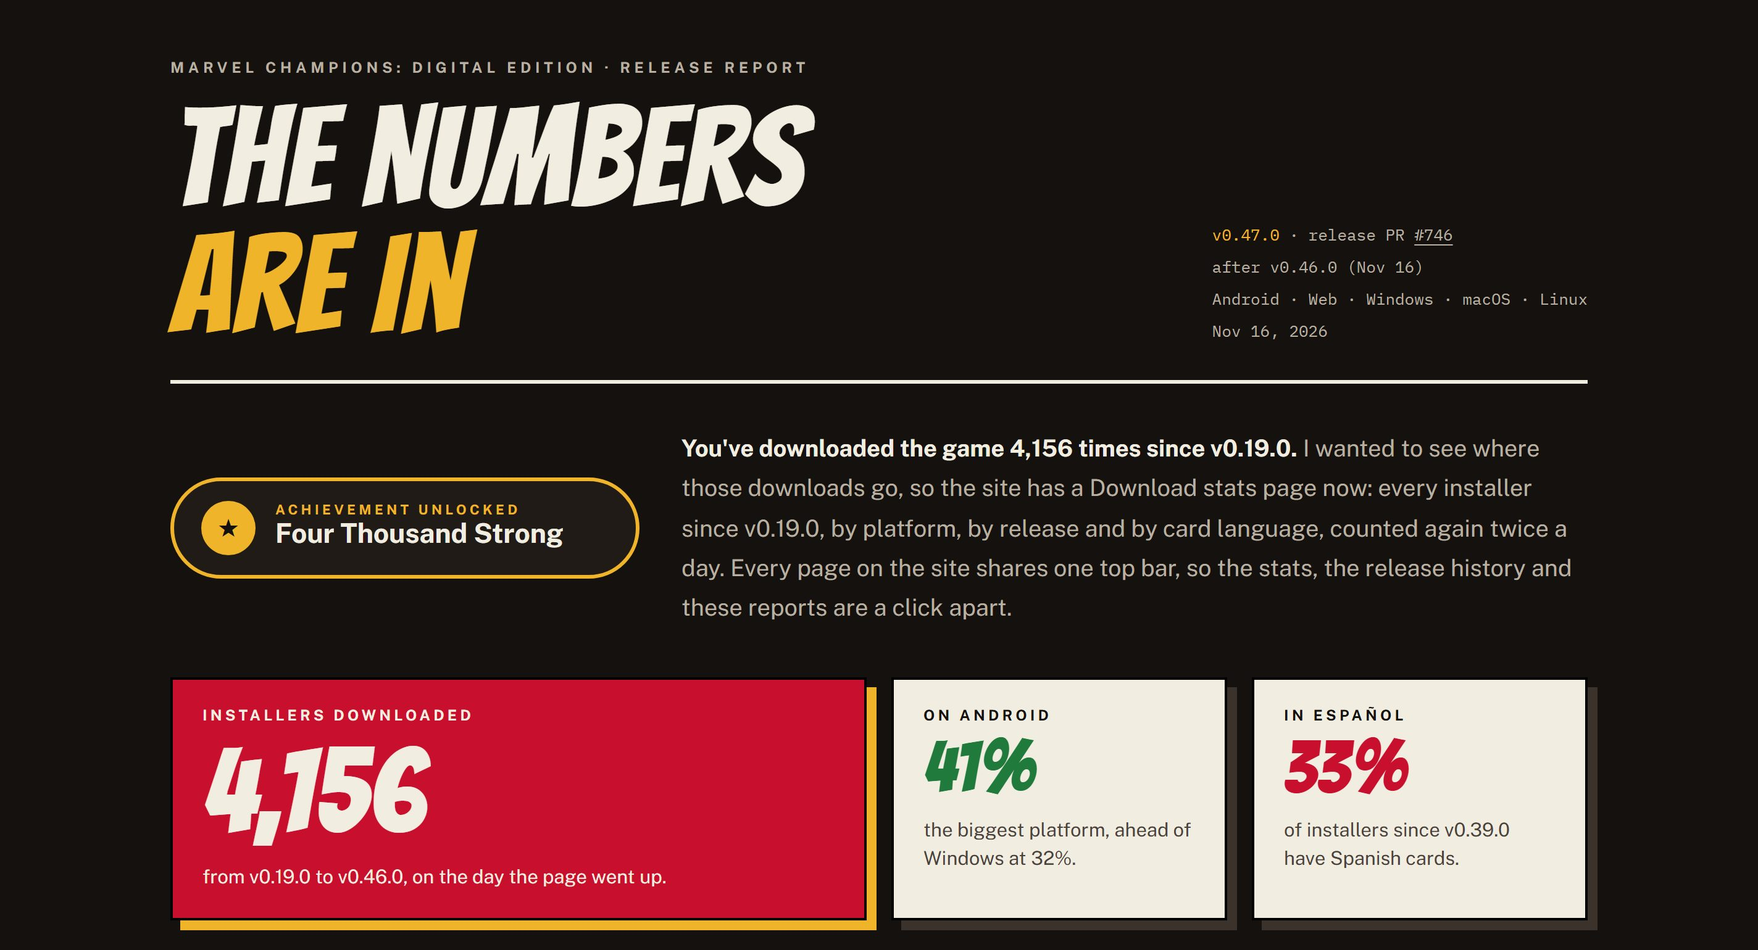
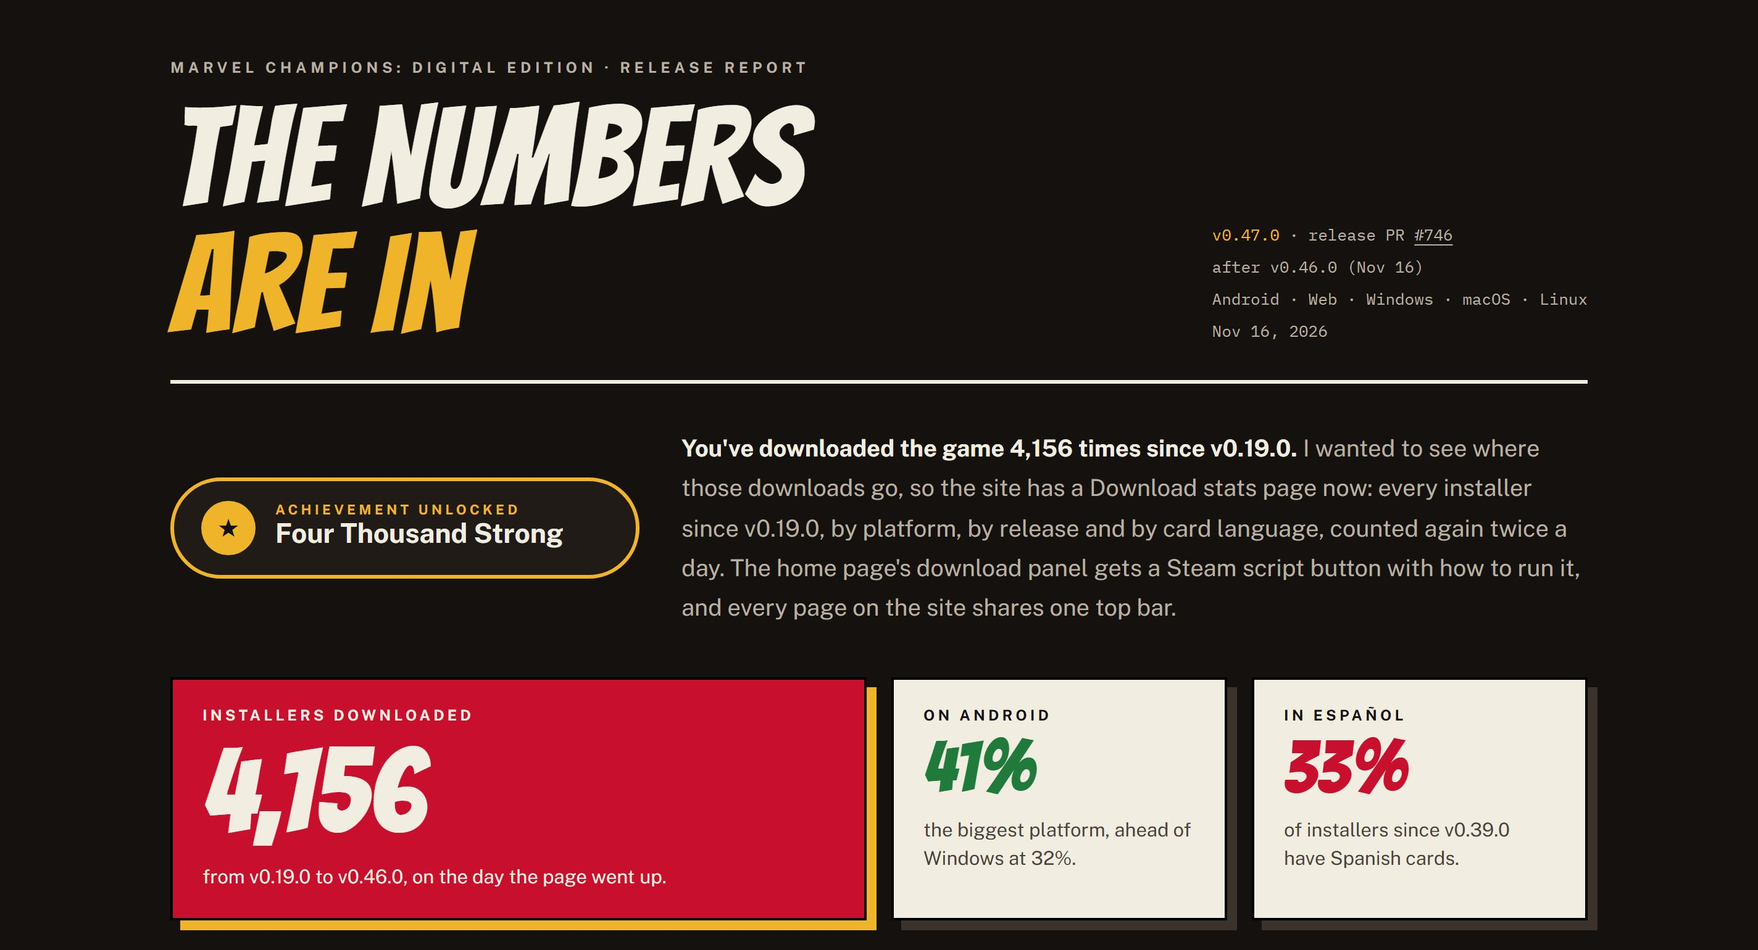
Add the Steam script button (#748) to the v0.47.0 report and recount

Changed region(s): [[0.375, 0.5922, 0.9062, 0.6545]]

diff --git a/packages/client/public/releases/v0.47.0/index.html b/packages/client/public/releases/v0.47.0/index.html
@@ -6,12 +6,12 @@
     <title>v0.47.0 · Marvel Champions: Digital Edition</title>
     <meta
       name="description"
-      content="What's new in v0.47.0 of the fan-made Marvel Champions digital game: a download stats page on the site, with every release's downloads by platform and language, and one top bar across the site's pages."
+      content="What's new in v0.47.0 of the fan-made Marvel Champions digital game: a download stats page on the site, with every release's downloads by platform and language, a Steam script button on the home page, and one top bar across the site's pages."
     />
     <meta property="og:title" content="Marvel Champions: Digital Edition v0.47.0" />
     <meta
       property="og:description"
-      content="A download stats page on the site counts every installer since v0.19.0, by platform, release and language."
+      content="A download stats page counts every installer since v0.19.0, and the home page gets a Steam script button."
     />
     <meta property="og:image" content="https://champions-digital-game.com/releases/v0.47.0/img/og.jpg" />
     <style>
@@ -609,8 +609,8 @@
         <p>
           <b>You've downloaded the game 4,156 times since v0.19.0.</b> I wanted to see where those downloads go, so the
           site has a Download stats page now: every installer since v0.19.0, by platform, by release and by card
-          language, counted again twice a day. Every page on the site shares one top bar, so the stats, the release
-          history and these reports are a click apart.
+          language, counted again twice a day. The home page's download panel gets a Steam script button with how to run
+          it, and every page on the site shares one top bar.
         </p>
       </section>
 
@@ -734,6 +734,78 @@
         </div>
       </div>
 
+      <!-- ============ STEAM ============ -->
+      <div class="band">
+        <h2>Play it from Steam</h2>
+        <div class="lab">Issue #747 · PR #748</div>
+      </div>
+      <p class="lead">
+        <b>The home page's download panel has a Steam script button now,</b> with the Steam logo, right beside the
+        installer for your computer. Under it, a short note says what the script does and how to run it on that
+        computer.
+      </p>
+      <div class="shots s-phone">
+        <div class="shots" style="margin: 0">
+          <figure class="a">
+            <img
+              src="img/steam-windows.webp"
+              alt="The download panel on Windows: Download for Windows, a Steam script button with the Steam logo and the .cmd file's name, and Play in your browser, above a Play it from Steam note"
+              width="1280"
+              height="521"
+              loading="lazy"
+            />
+            <figcaption>On Windows: double-click the .cmd</figcaption>
+          </figure>
+          <figure>
+            <img
+              src="img/steam-linux.webp"
+              alt="The download panel on Linux: the Steam script button beside Download for Linux and Steam Deck, and a note with the chmod and run commands, each on a line of its own"
+              width="1280"
+              height="686"
+              loading="lazy"
+            />
+            <figcaption>On Linux and Steam Deck, the commands to copy</figcaption>
+          </figure>
+        </div>
+        <figure class="a">
+          <img
+            src="img/steam-mac-phone.webp"
+            alt="The download panel for a Mac on a phone-sized screen, with the Steam script button and the Terminal commands wrapping to fit"
+            width="412"
+            height="1152"
+            loading="lazy"
+          />
+          <figcaption>The macOS note at phone width</figcaption>
+        </figure>
+      </div>
+      <div class="cols">
+        <div class="box">
+          <h3>What the script does</h3>
+          <ul class="ck">
+            <li>It installs the game, adds it to your Steam library with its art, and keeps it updated.</li>
+            <li>Steam has to be closed while it runs, and the script offers to close it.</li>
+            <li>
+              Phones, and computers the page can't recognize, get no Steam button. Every system's script is still under
+              Other devices.
+            </li>
+          </ul>
+        </div>
+        <div class="box">
+          <h3>How to run it</h3>
+          <ul class="ck">
+            <li>
+              <b>Windows:</b> double-click the <code>.cmd</code>. If Windows stops it, choose <b>More info</b>, then
+              <b>Run anyway</b>. No PowerShell settings to change.
+            </li>
+            <li>
+              <b>macOS and Linux:</b> give it permission with <code>chmod +x</code>, then run it, or run it with
+              <code>bash</code> and skip that step. Each command sits on its own line, so it copies whole.
+            </li>
+            <li><b>Steam Deck:</b> switch to Desktop Mode and run it in Konsole.</li>
+          </ul>
+        </div>
+      </div>
+
       <!-- ============ NAV ============ -->
       <div class="band">
         <h2>One bar across the site</h2>
@@ -805,22 +877,22 @@
       <section class="stats" aria-label="Code shipped since v0.46.0">
         <div class="tile">
           <h4>Pull requests</h4>
-          <div class="n">2</div>
+          <div class="n">3</div>
           <p>merged into main.</p>
         </div>
         <div class="tile">
           <h4>Files changed</h4>
-          <div class="n">67</div>
+          <div class="n">62</div>
           <p>across the site, its build and this report.</p>
         </div>
         <div class="tile">
           <h4>Lines added</h4>
-          <div class="n c-green">2,887</div>
+          <div class="n c-green">3,145</div>
           <p>the stats page, the top bar and their tests.</p>
         </div>
         <div class="tile">
           <h4>Lines removed</h4>
-          <div class="n c-red">45</div>
+          <div class="n c-red">46</div>
           <p>most of them the home page's old links and styles, replaced by the bar.</p>
         </div>
       </section>

diff --git a/docs/screenshots/releases/v0.47.0/github-release-body.md b/docs/screenshots/releases/v0.47.0/github-release-body.md
@@ -1,20 +1,22 @@
 ## The Numbers Are In
 
-You've downloaded the game 4,156 times since v0.19.0, so the site has a Download stats page now (#743, #745): every installer by platform, by release and by card language, the five biggest releases with their headlines, and the Install for Steam runs, counted again twice a day whenever the numbers move. Android leads with 41%, and a third of installers since v0.39.0 have Spanish cards. Every page on the site, from the home page to the release history and each report, shares one top bar with Home, Download stats and Releases. Thank you for playing!
+You've downloaded the game 4,156 times since v0.19.0, so the site has a Download stats page now (#743, #745): every installer by platform, by release and by card language, the five biggest releases with their headlines, and the Install for Steam runs, counted again twice a day whenever the numbers move. Android leads with 41%, and a third of installers since v0.39.0 have Spanish cards. The home page's download panel gets a Steam script button beside the installer, with how to run it on Windows, macOS, Linux and Steam Deck (#747, #748). Every page on the site, from the home page to the release history and each report, shares one top bar with Home, Download stats and Releases. Thank you for playing!
 
-**[Read the full v0.47.0 report on the site ↗](https://champions-digital-game.com/releases/v0.47.0/)**: the Download stats page, where you play, every release's bar, the top five, the shared top bar and the thank-you wall.
+**[Read the full v0.47.0 report on the site ↗](https://champions-digital-game.com/releases/v0.47.0/)**: the Download stats page, where you play, every release's bar, the top five, the Steam script button, the shared top bar and the thank-you wall.
 
 **[Lee el informe completo en español ↗](https://champions-digital-game.com/releases/v0.47.0/index.es.html)**
 
-![The numbers: 4,156 installers downloaded since v0.19.0, 41% of them on Android and 33% in Español since v0.39.0](https://raw.githubusercontent.com/quincarter/marvel-champions-digital-game/8be7a17d6d1dae621b5d46f259ffb0db8825f0ca/docs/screenshots/releases/v0.47.0/v0-47-0-release-01-the-numbers.jpg)
+![The numbers: 4,156 installers downloaded since v0.19.0, 41% of them on Android and 33% in Español since v0.39.0](https://raw.githubusercontent.com/quincarter/marvel-champions-digital-game/@SHA@/docs/screenshots/releases/v0.47.0/v0-47-0-release-01-the-numbers.jpg)
 
-![A page for the numbers: the Download stats page, each platform's share, the five biggest releases, the page on a phone, a bar for every release, and card language and Install for Steam](https://raw.githubusercontent.com/quincarter/marvel-champions-digital-game/8be7a17d6d1dae621b5d46f259ffb0db8825f0ca/docs/screenshots/releases/v0.47.0/v0-47-0-release-02-a-page-for-the-numbers.jpg)
+![A page for the numbers: the Download stats page, each platform's share, the five biggest releases, the page on a phone, a bar for every release, and card language and Install for Steam](https://raw.githubusercontent.com/quincarter/marvel-champions-digital-game/@SHA@/docs/screenshots/releases/v0.47.0/v0-47-0-release-02-a-page-for-the-numbers.jpg)
 
-![One bar across the site: Home, Download stats and Releases on a release report and on the release history](https://raw.githubusercontent.com/quincarter/marvel-champions-digital-game/8be7a17d6d1dae621b5d46f259ffb0db8825f0ca/docs/screenshots/releases/v0.47.0/v0-47-0-release-03-one-bar-across-the-site.jpg)
+![Play it from Steam: the Steam script button beside the installer on Windows, Linux and a Mac at phone width, with how to run it](https://raw.githubusercontent.com/quincarter/marvel-champions-digital-game/@SHA@/docs/screenshots/releases/v0.47.0/v0-47-0-release-03-play-it-from-steam.jpg)
 
-![Thank you to everyone who played, in English, in Español and on Steam](https://raw.githubusercontent.com/quincarter/marvel-champions-digital-game/8be7a17d6d1dae621b5d46f259ffb0db8825f0ca/docs/screenshots/releases/v0.47.0/v0-47-0-release-04-thank-you.jpg)
+![One bar across the site: Home, Download stats and Releases on a release report and on the release history](https://raw.githubusercontent.com/quincarter/marvel-champions-digital-game/@SHA@/docs/screenshots/releases/v0.47.0/v0-47-0-release-04-one-bar-across-the-site.jpg)
 
-![Code shipped since v0.46.0](https://raw.githubusercontent.com/quincarter/marvel-champions-digital-game/8be7a17d6d1dae621b5d46f259ffb0db8825f0ca/docs/screenshots/releases/v0.47.0/v0-47-0-release-05-code-shipped.jpg)
+![Thank you to everyone who played, in English, in Español and on Steam](https://raw.githubusercontent.com/quincarter/marvel-champions-digital-game/@SHA@/docs/screenshots/releases/v0.47.0/v0-47-0-release-05-thank-you.jpg)
+
+![Code shipped since v0.46.0](https://raw.githubusercontent.com/quincarter/marvel-champions-digital-game/@SHA@/docs/screenshots/releases/v0.47.0/v0-47-0-release-06-code-shipped.jpg)
 
 ---
 
@@ -24,3 +26,4 @@ You've downloaded the game 4,156 times since v0.19.0, so the site has a Download
 
 - A download stats page on the landing site, refreshed twice a day when the numbers change, and a top nav (Home, Download stats, Releases) on the landing, stats and release pages.
 - The v0.47.0 release report has its own page on the site, at /releases/v0.47.0/
+- The landing page's download panel has a Steam script button beside the installer, with how to run it on Windows, macOS and Linux.

diff --git a/docs/releases/es/v0.47.0.md b/docs/releases/es/v0.47.0.md
@@ -1,16 +1,18 @@
 ## Ya están los números
 
-Has descargado el juego 4,156 veces desde v0.19.0, así que el sitio ahora tiene una página de estadísticas de descargas (#743, #745): cada instalador por plataforma, por versión y por idioma de las cartas, las cinco versiones más descargadas con sus titulares y las ejecuciones de Install for Steam, contado de nuevo dos veces al día cuando cambian las cifras. Android va primero con un 41%, y un tercio de los instaladores desde v0.39.0 traen las cartas en español. Todas las páginas del sitio, desde la de inicio hasta el historial de versiones y cada informe, comparten una barra superior con Home, Download stats y Releases. ¡Gracias por jugar!
+Has descargado el juego 4,156 veces desde v0.19.0, así que el sitio ahora tiene una página de estadísticas de descargas (#743, #745): cada instalador por plataforma, por versión y por idioma de las cartas, las cinco versiones más descargadas con sus titulares y las ejecuciones de Install for Steam, contado de nuevo dos veces al día cuando cambian las cifras. Android va primero con un 41%, y un tercio de los instaladores desde v0.39.0 traen las cartas en español. El panel de descarga de la página de inicio tiene un botón Steam script junto al instalador, con cómo ejecutarlo en Windows, macOS, Linux y Steam Deck (#747, #748). Todas las páginas del sitio, desde la de inicio hasta el historial de versiones y cada informe, comparten una barra superior con Home, Download stats y Releases. ¡Gracias por jugar!
 
-![Los números: 4,156 instaladores descargados desde v0.19.0, el 41% en Android y el 33% en español desde v0.39.0](https://raw.githubusercontent.com/quincarter/marvel-champions-digital-game/8be7a17d6d1dae621b5d46f259ffb0db8825f0ca/docs/screenshots/releases/v0.47.0/v0-47-0-release-01-the-numbers.jpg)
+![Los números: 4,156 instaladores descargados desde v0.19.0, el 41% en Android y el 33% en español desde v0.39.0](https://raw.githubusercontent.com/quincarter/marvel-champions-digital-game/@SHA@/docs/screenshots/releases/v0.47.0/v0-47-0-release-01-the-numbers.jpg)
 
-![Una página para los números: la página Download stats, la parte de cada plataforma, las cinco versiones más descargadas, la página en un teléfono, una barra por versión, y el idioma de las cartas e Install for Steam](https://raw.githubusercontent.com/quincarter/marvel-champions-digital-game/8be7a17d6d1dae621b5d46f259ffb0db8825f0ca/docs/screenshots/releases/v0.47.0/v0-47-0-release-02-a-page-for-the-numbers.jpg)
+![Una página para los números: la página Download stats, la parte de cada plataforma, las cinco versiones más descargadas, la página en un teléfono, una barra por versión, y el idioma de las cartas e Install for Steam](https://raw.githubusercontent.com/quincarter/marvel-champions-digital-game/@SHA@/docs/screenshots/releases/v0.47.0/v0-47-0-release-02-a-page-for-the-numbers.jpg)
 
-![Una barra en todo el sitio: Home, Download stats y Releases en un informe de versión y en el historial de versiones](https://raw.githubusercontent.com/quincarter/marvel-champions-digital-game/8be7a17d6d1dae621b5d46f259ffb0db8825f0ca/docs/screenshots/releases/v0.47.0/v0-47-0-release-03-one-bar-across-the-site.jpg)
+![Juega desde Steam: el botón Steam script junto al instalador en Windows, Linux y un Mac con ancho de teléfono, con cómo ejecutarlo](https://raw.githubusercontent.com/quincarter/marvel-champions-digital-game/@SHA@/docs/screenshots/releases/v0.47.0/v0-47-0-release-03-play-it-from-steam.jpg)
 
-![Gracias a todos los que jugaron, en inglés, en español y en Steam](https://raw.githubusercontent.com/quincarter/marvel-champions-digital-game/8be7a17d6d1dae621b5d46f259ffb0db8825f0ca/docs/screenshots/releases/v0.47.0/v0-47-0-release-04-thank-you.jpg)
+![Una barra en todo el sitio: Home, Download stats y Releases en un informe de versión y en el historial de versiones](https://raw.githubusercontent.com/quincarter/marvel-champions-digital-game/@SHA@/docs/screenshots/releases/v0.47.0/v0-47-0-release-04-one-bar-across-the-site.jpg)
 
-![Código publicado desde v0.46.0](https://raw.githubusercontent.com/quincarter/marvel-champions-digital-game/8be7a17d6d1dae621b5d46f259ffb0db8825f0ca/docs/screenshots/releases/v0.47.0/v0-47-0-release-05-code-shipped.jpg)
+![Gracias a todos los que jugaron, en inglés, en español y en Steam](https://raw.githubusercontent.com/quincarter/marvel-champions-digital-game/@SHA@/docs/screenshots/releases/v0.47.0/v0-47-0-release-05-thank-you.jpg)
+
+![Código publicado desde v0.46.0](https://raw.githubusercontent.com/quincarter/marvel-champions-digital-game/@SHA@/docs/screenshots/releases/v0.47.0/v0-47-0-release-06-code-shipped.jpg)
 
 ## [v0.47.0] - 2026-11-16
 
@@ -18,3 +20,4 @@ Has descargado el juego 4,156 veces desde v0.19.0, así que el sitio ahora tiene
 
 - Una página de estadísticas de descargas en el sitio, actualizada dos veces al día cuando cambian las cifras, y una barra superior (Home, Download stats, Releases) en la página de inicio, la de estadísticas y las de versiones.
 - El informe de la versión v0.47.0 tiene su propia página en el sitio, en /releases/v0.47.0/
+- El panel de descarga de la página de inicio tiene un botón Steam script junto al instalador, con cómo ejecutarlo en Windows, macOS y Linux.

diff --git a/docs/screenshots/releases/v0.47.0/release-notes-header.md b/docs/screenshots/releases/v0.47.0/release-notes-header.md
@@ -1,17 +1,19 @@
 ## The Numbers Are In
 
-You've downloaded the game 4,156 times since v0.19.0, so the site has a Download stats page now (#743, #745): every installer by platform, by release and by card language, the five biggest releases with their headlines, and the Install for Steam runs, counted again twice a day whenever the numbers move. Android leads with 41%, and a third of installers since v0.39.0 have Spanish cards. Every page on the site, from the home page to the release history and each report, shares one top bar with Home, Download stats and Releases. Thank you for playing!
+You've downloaded the game 4,156 times since v0.19.0, so the site has a Download stats page now (#743, #745): every installer by platform, by release and by card language, the five biggest releases with their headlines, and the Install for Steam runs, counted again twice a day whenever the numbers move. Android leads with 41%, and a third of installers since v0.39.0 have Spanish cards. The home page's download panel gets a Steam script button beside the installer, with how to run it on Windows, macOS, Linux and Steam Deck (#747, #748). Every page on the site, from the home page to the release history and each report, shares one top bar with Home, Download stats and Releases. Thank you for playing!
 
-**[Read the full v0.47.0 report on the site ↗](https://champions-digital-game.com/releases/v0.47.0/)**: the Download stats page, where you play, every release's bar, the top five, the shared top bar and the thank-you wall.
+**[Read the full v0.47.0 report on the site ↗](https://champions-digital-game.com/releases/v0.47.0/)**: the Download stats page, where you play, every release's bar, the top five, the Steam script button, the shared top bar and the thank-you wall.
 
 **[Lee el informe completo en español ↗](https://champions-digital-game.com/releases/v0.47.0/index.es.html)**
 
-![The numbers: 4,156 installers downloaded since v0.19.0, 41% of them on Android and 33% in Español since v0.39.0](https://raw.githubusercontent.com/quincarter/marvel-champions-digital-game/8be7a17d6d1dae621b5d46f259ffb0db8825f0ca/docs/screenshots/releases/v0.47.0/v0-47-0-release-01-the-numbers.jpg)
+![The numbers: 4,156 installers downloaded since v0.19.0, 41% of them on Android and 33% in Español since v0.39.0](https://raw.githubusercontent.com/quincarter/marvel-champions-digital-game/@SHA@/docs/screenshots/releases/v0.47.0/v0-47-0-release-01-the-numbers.jpg)
 
-![A page for the numbers: the Download stats page, each platform's share, the five biggest releases, the page on a phone, a bar for every release, and card language and Install for Steam](https://raw.githubusercontent.com/quincarter/marvel-champions-digital-game/8be7a17d6d1dae621b5d46f259ffb0db8825f0ca/docs/screenshots/releases/v0.47.0/v0-47-0-release-02-a-page-for-the-numbers.jpg)
+![A page for the numbers: the Download stats page, each platform's share, the five biggest releases, the page on a phone, a bar for every release, and card language and Install for Steam](https://raw.githubusercontent.com/quincarter/marvel-champions-digital-game/@SHA@/docs/screenshots/releases/v0.47.0/v0-47-0-release-02-a-page-for-the-numbers.jpg)
 
-![One bar across the site: Home, Download stats and Releases on a release report and on the release history](https://raw.githubusercontent.com/quincarter/marvel-champions-digital-game/8be7a17d6d1dae621b5d46f259ffb0db8825f0ca/docs/screenshots/releases/v0.47.0/v0-47-0-release-03-one-bar-across-the-site.jpg)
+![Play it from Steam: the Steam script button beside the installer on Windows, Linux and a Mac at phone width, with how to run it](https://raw.githubusercontent.com/quincarter/marvel-champions-digital-game/@SHA@/docs/screenshots/releases/v0.47.0/v0-47-0-release-03-play-it-from-steam.jpg)
 
-![Thank you to everyone who played, in English, in Español and on Steam](https://raw.githubusercontent.com/quincarter/marvel-champions-digital-game/8be7a17d6d1dae621b5d46f259ffb0db8825f0ca/docs/screenshots/releases/v0.47.0/v0-47-0-release-04-thank-you.jpg)
+![One bar across the site: Home, Download stats and Releases on a release report and on the release history](https://raw.githubusercontent.com/quincarter/marvel-champions-digital-game/@SHA@/docs/screenshots/releases/v0.47.0/v0-47-0-release-04-one-bar-across-the-site.jpg)
 
-![Code shipped since v0.46.0](https://raw.githubusercontent.com/quincarter/marvel-champions-digital-game/8be7a17d6d1dae621b5d46f259ffb0db8825f0ca/docs/screenshots/releases/v0.47.0/v0-47-0-release-05-code-shipped.jpg)
+![Thank you to everyone who played, in English, in Español and on Steam](https://raw.githubusercontent.com/quincarter/marvel-champions-digital-game/@SHA@/docs/screenshots/releases/v0.47.0/v0-47-0-release-05-thank-you.jpg)
+
+![Code shipped since v0.46.0](https://raw.githubusercontent.com/quincarter/marvel-champions-digital-game/@SHA@/docs/screenshots/releases/v0.47.0/v0-47-0-release-06-code-shipped.jpg)

diff --git a/docs/screenshots/releases/v0.47.0/discord-post.md b/docs/screenshots/releases/v0.47.0/discord-post.md
@@ -7,6 +7,7 @@ You've downloaded the game 4,156 times since v0.19.0, so the site has a page to 
 🏆 **Top five**: the five biggest releases, each with its headline and a link to its report.
 🇪🇸 **In Español**: a third of installers since v0.39.0 have Spanish cards.
 🎮 **Steam**: 141 runs of Install for Steam since v0.38.0, 67 of them on Linux and Steam Deck.
+🚂 **Steam script button**: the home page's download panel puts it beside your installer, with how to run it on Windows, macOS, Linux and Steam Deck.
 🔁 **Kept current**: the page counts again twice a day, whenever the numbers move.
 🧭 **One top bar**: Home, Download stats and Releases on every page of the site, release reports included.
 
@@ -27,6 +28,7 @@ Has descargado el juego 4,156 veces desde v0.19.0, así que el sitio tiene una p
 🏆 **Las cinco primeras**: las cinco versiones más descargadas, cada una con su titular y un enlace a su informe.
 🇪🇸 **En español**: un tercio de los instaladores desde v0.39.0 traen las cartas en español.
 🎮 **Steam**: 141 ejecuciones de Install for Steam desde v0.38.0, 67 de ellas en Linux y Steam Deck.
+🚂 **Botón Steam script**: el panel de descarga de la página de inicio lo pone junto a tu instalador, con cómo ejecutarlo en Windows, macOS, Linux y Steam Deck.
 🔁 **Siempre al día**: la página vuelve a contar dos veces al día, cuando cambian las cifras.
 🧭 **Una barra superior**: Home, Download stats y Releases en todas las páginas del sitio, también en los informes de versión.
 
